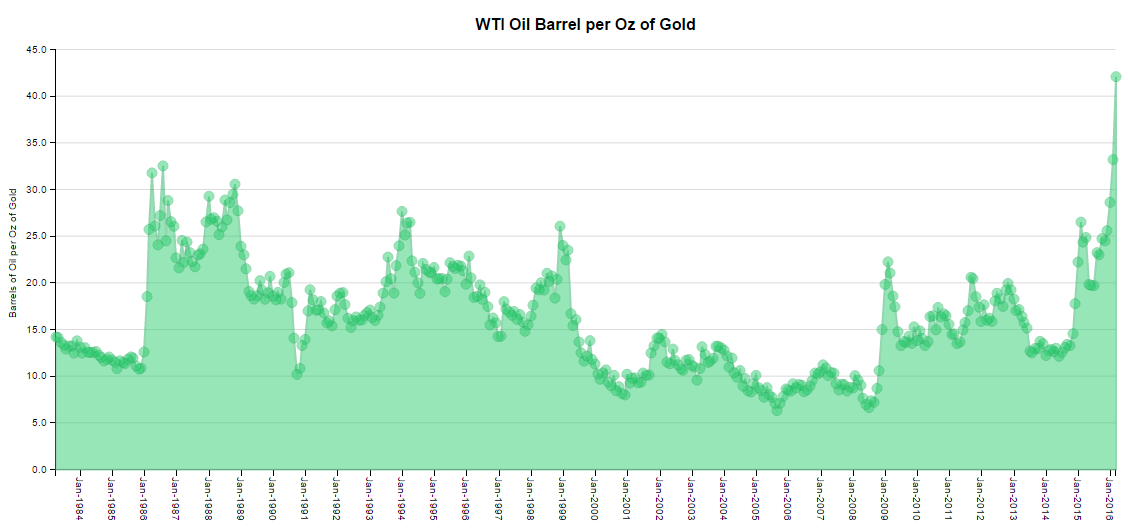
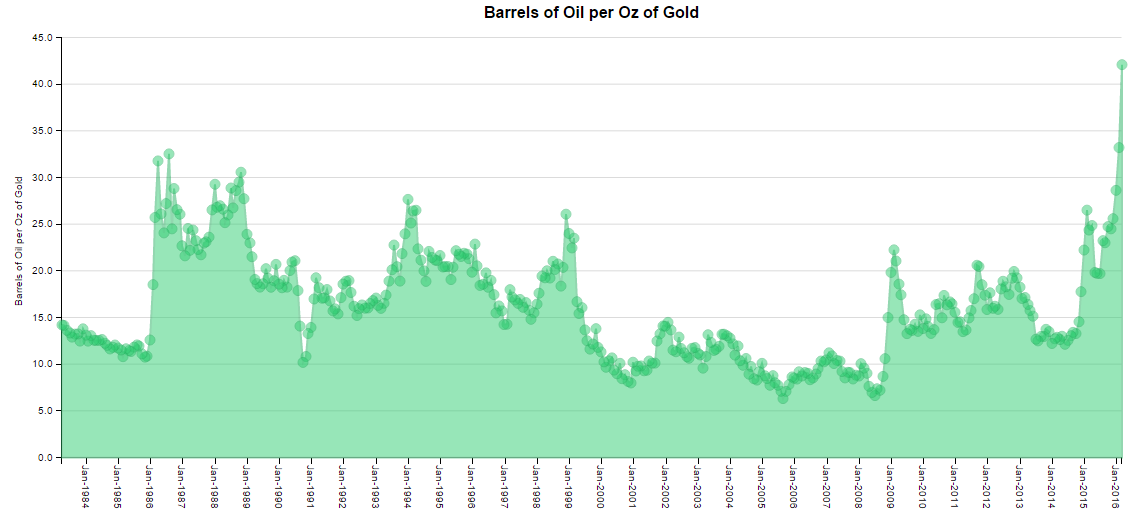
Final Commit

diff --git a/Index_Final_Plot.html b/Index_Final_Plot.html
@@ -112,7 +112,7 @@
             .style("text-anchor", "middle")
             .style("font-family", "sans-serif")
             .style("font-weight", "bold")
-            .text("WTI Oil Barrel per Oz of Gold");
+            .text("Barrels of Oil per Oz of Gold");
 
         // add series and draw
 

diff --git a/README.md b/README.md
@@ -20,7 +20,7 @@ After I got the Monthly West Texas Intermediate (WTI) Oil and Gold data from [Qu
 - The economists originally issues the bigmac data as a yearly data. However some of the years have two BigMac price, in January and in June. I average these two out to get the yearly BigMac Data. As I use WTI as my base for oil price, I use BigMac prices in the USA as my base, 
 - From there, I assume that the Oil Price is fluctuating over the year, and the bigmac price is constant for that year. Similar to how we calculate the [P/E ratio](http://www.investopedia.com/terms/p/price-earningsratio.asp) in stocks. 
 
-After I got the dataframe right, I then calculate the desired variable and export the csv from R. You can follow my R code in processing the data [here]()
+After I got the dataframe right, I then calculate the desired variable and export the csv from R. You can see my R code for processing the data [here]()
 
 #### Plot Sketching
 I made a rough plot using base graphic in R. The objective is to communicate the Bigmac per bbl of oil as shown in chart below.
@@ -90,6 +90,8 @@ The Final Result is as follow:
 
 - BBLs of Oil Per Oz of Gold
 ![BBLs per Oz of Gold](https://raw.githubusercontent.com/PhilipThomas99/Data-Visualization-Udacity/master/images/Gold_Oil_Final.PNG) 
+
+You can see about the analysis of the chart inside the html file and load it up as a webpage. 
 
 ### Resources
 
